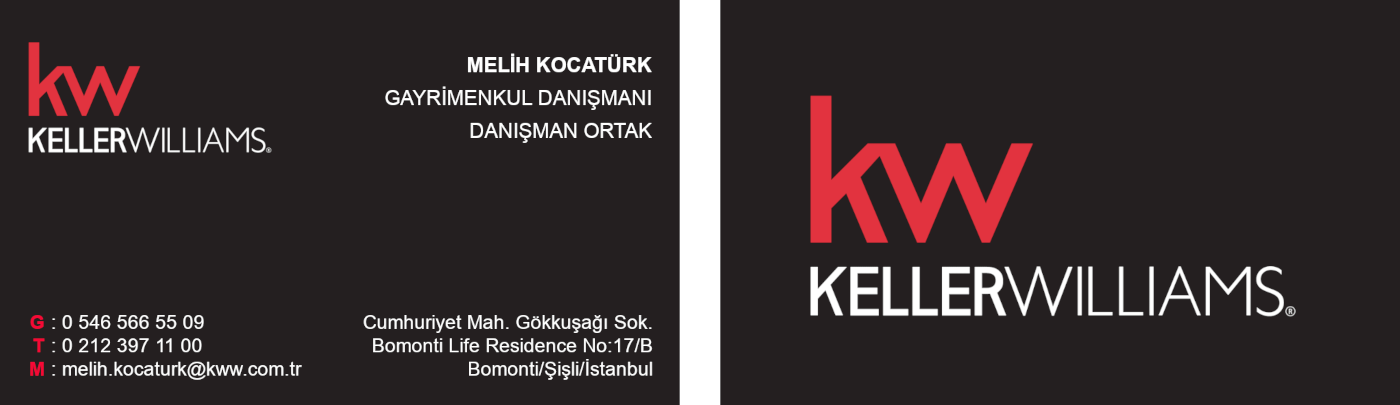
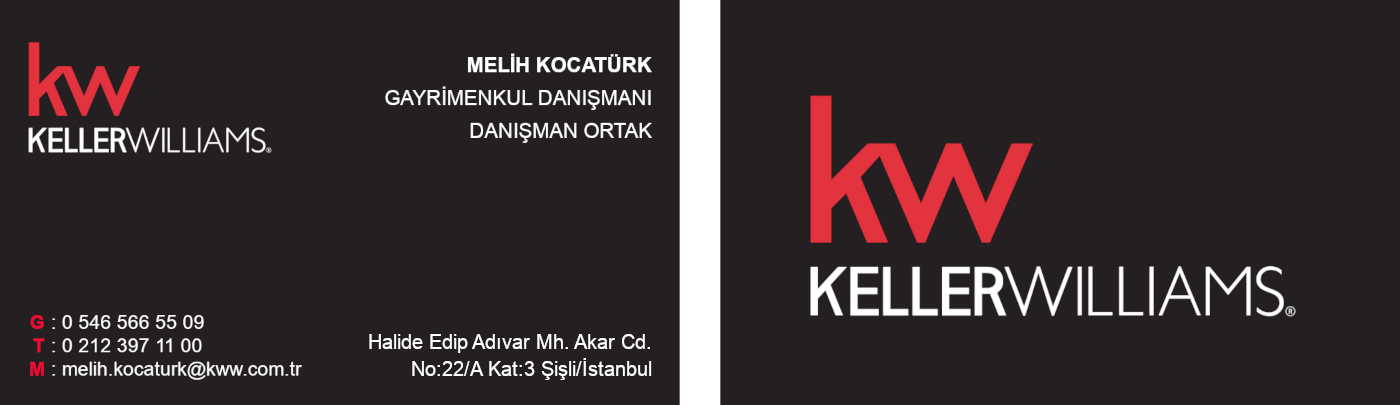
contact page updated

Changed region(s): [[0.2457, 0.7704, 0.4914, 0.9481]]

diff --git a/_site/iletisim.html b/_site/iletisim.html
@@ -76,11 +76,11 @@ Evinizi satmak, yeni bir yaşam alanı bulmak ya da yatırım fırsatlarını de
   <li><strong>GSM</strong>: +90 546 566 55 09</li>
   <li><strong>Telefon</strong>: +90 212 397 11 00</li>
   <li><strong>E-mail</strong>: <a href="mailto:melih.kocaturk@kww.com.tr">melih.kocaturk@kww.com.tr</a></li>
-  <li><strong>Ofis</strong>: KW Fores, Cumhuriyet Mah. Gökkuşağı Sok. Bomonti Life Residence No:17/B Bomonti/Şişli/İstanbul</li>
+  <li><strong>Ofis</strong>: Keller Williams Fores, Halide Edip Adıvar Mh. Akar Cd. No:22/A Kat:3 Şişli/İstanbul</li>
   <li>Dijital kartviziti indirmek için <a href="/images/kartvizit.png">buraya tıklayın</a>.</li>
 </ul>
 
-<iframe src="https://www.google.com/maps/embed?pb=!1m16!1m12!1m3!1d936.2951509751748!2d28.980457940503513!3d41.05589700932986!2m3!1f0!2f0!3f0!3m2!1i1024!2i768!4f13.1!2m1!1zQ3VtaHVyaXlldCBNYWguIEfDtmtrdcWfYcSfxLEgU29rLiBCb21vbnRpIExpZmUgUmVzaWRlbmNlIE5vOjE3L0IgQm9tb250aS_FnmnFn2xpL8Swc3RhbmJ1bA!5e0!3m2!1str!2str!4v1757094082398!5m2!1str!2str" width="100%" height="450" style="border:0;" allowfullscreen="" loading="lazy" referrerpolicy="no-referrer-when-downgrade"></iframe>
+<iframe src="https://www.google.com/maps/embed?pb=!1m18!1m12!1m3!1d3008.394264220182!2d28.975021475778522!3d41.06037377134328!2m3!1f0!2f0!3f0!3m2!1i1024!2i768!4f13.1!3m3!1m2!1s0x14cab718160ba8b3%3A0x1e584dbe324c38e5!2zSGFsaWRlIEVkaXAgQWTEsXZhciwgQWthciBDZC4gTm86MjIgQSBLYXQ6MywgMzQzODIgxZ5pxZ9saS_EsHN0YW5idWw!5e0!3m2!1str!2str!4v1762767850014!5m2!1str!2str" width="600" height="450" style="border:0;" allowfullscreen="" loading="lazy" referrerpolicy="no-referrer-when-downgrade"></iframe>
 
 <h2 id="çalışma-saatleri">Çalışma Saatleri</h2>
 

diff --git a/iletisim.md b/iletisim.md
@@ -17,7 +17,7 @@ Detaylı bilgi ve profesyonel destek için aşağıdaki iletişim kanallarından
 - **Ofis**: {{ site.contact.address }}
 - Dijital kartviziti indirmek için [buraya tıklayın](/images/kartvizit.png).
 
-<iframe src="https://www.google.com/maps/embed?pb=!1m16!1m12!1m3!1d936.2951509751748!2d28.980457940503513!3d41.05589700932986!2m3!1f0!2f0!3f0!3m2!1i1024!2i768!4f13.1!2m1!1zQ3VtaHVyaXlldCBNYWguIEfDtmtrdcWfYcSfxLEgU29rLiBCb21vbnRpIExpZmUgUmVzaWRlbmNlIE5vOjE3L0IgQm9tb250aS_FnmnFn2xpL8Swc3RhbmJ1bA!5e0!3m2!1str!2str!4v1757094082398!5m2!1str!2str" width="100%" height="450" style="border:0;" allowfullscreen="" loading="lazy" referrerpolicy="no-referrer-when-downgrade"></iframe>
+<iframe src="https://www.google.com/maps/embed?pb=!1m18!1m12!1m3!1d3008.394264220182!2d28.975021475778522!3d41.06037377134328!2m3!1f0!2f0!3f0!3m2!1i1024!2i768!4f13.1!3m3!1m2!1s0x14cab718160ba8b3%3A0x1e584dbe324c38e5!2zSGFsaWRlIEVkaXAgQWTEsXZhciwgQWthciBDZC4gTm86MjIgQSBLYXQ6MywgMzQzODIgxZ5pxZ9saS_EsHN0YW5idWw!5e0!3m2!1str!2str!4v1762767850014!5m2!1str!2str" width="600" height="450" style="border:0;" allowfullscreen="" loading="lazy" referrerpolicy="no-referrer-when-downgrade"></iframe>
 
 ## Çalışma Saatleri
 
